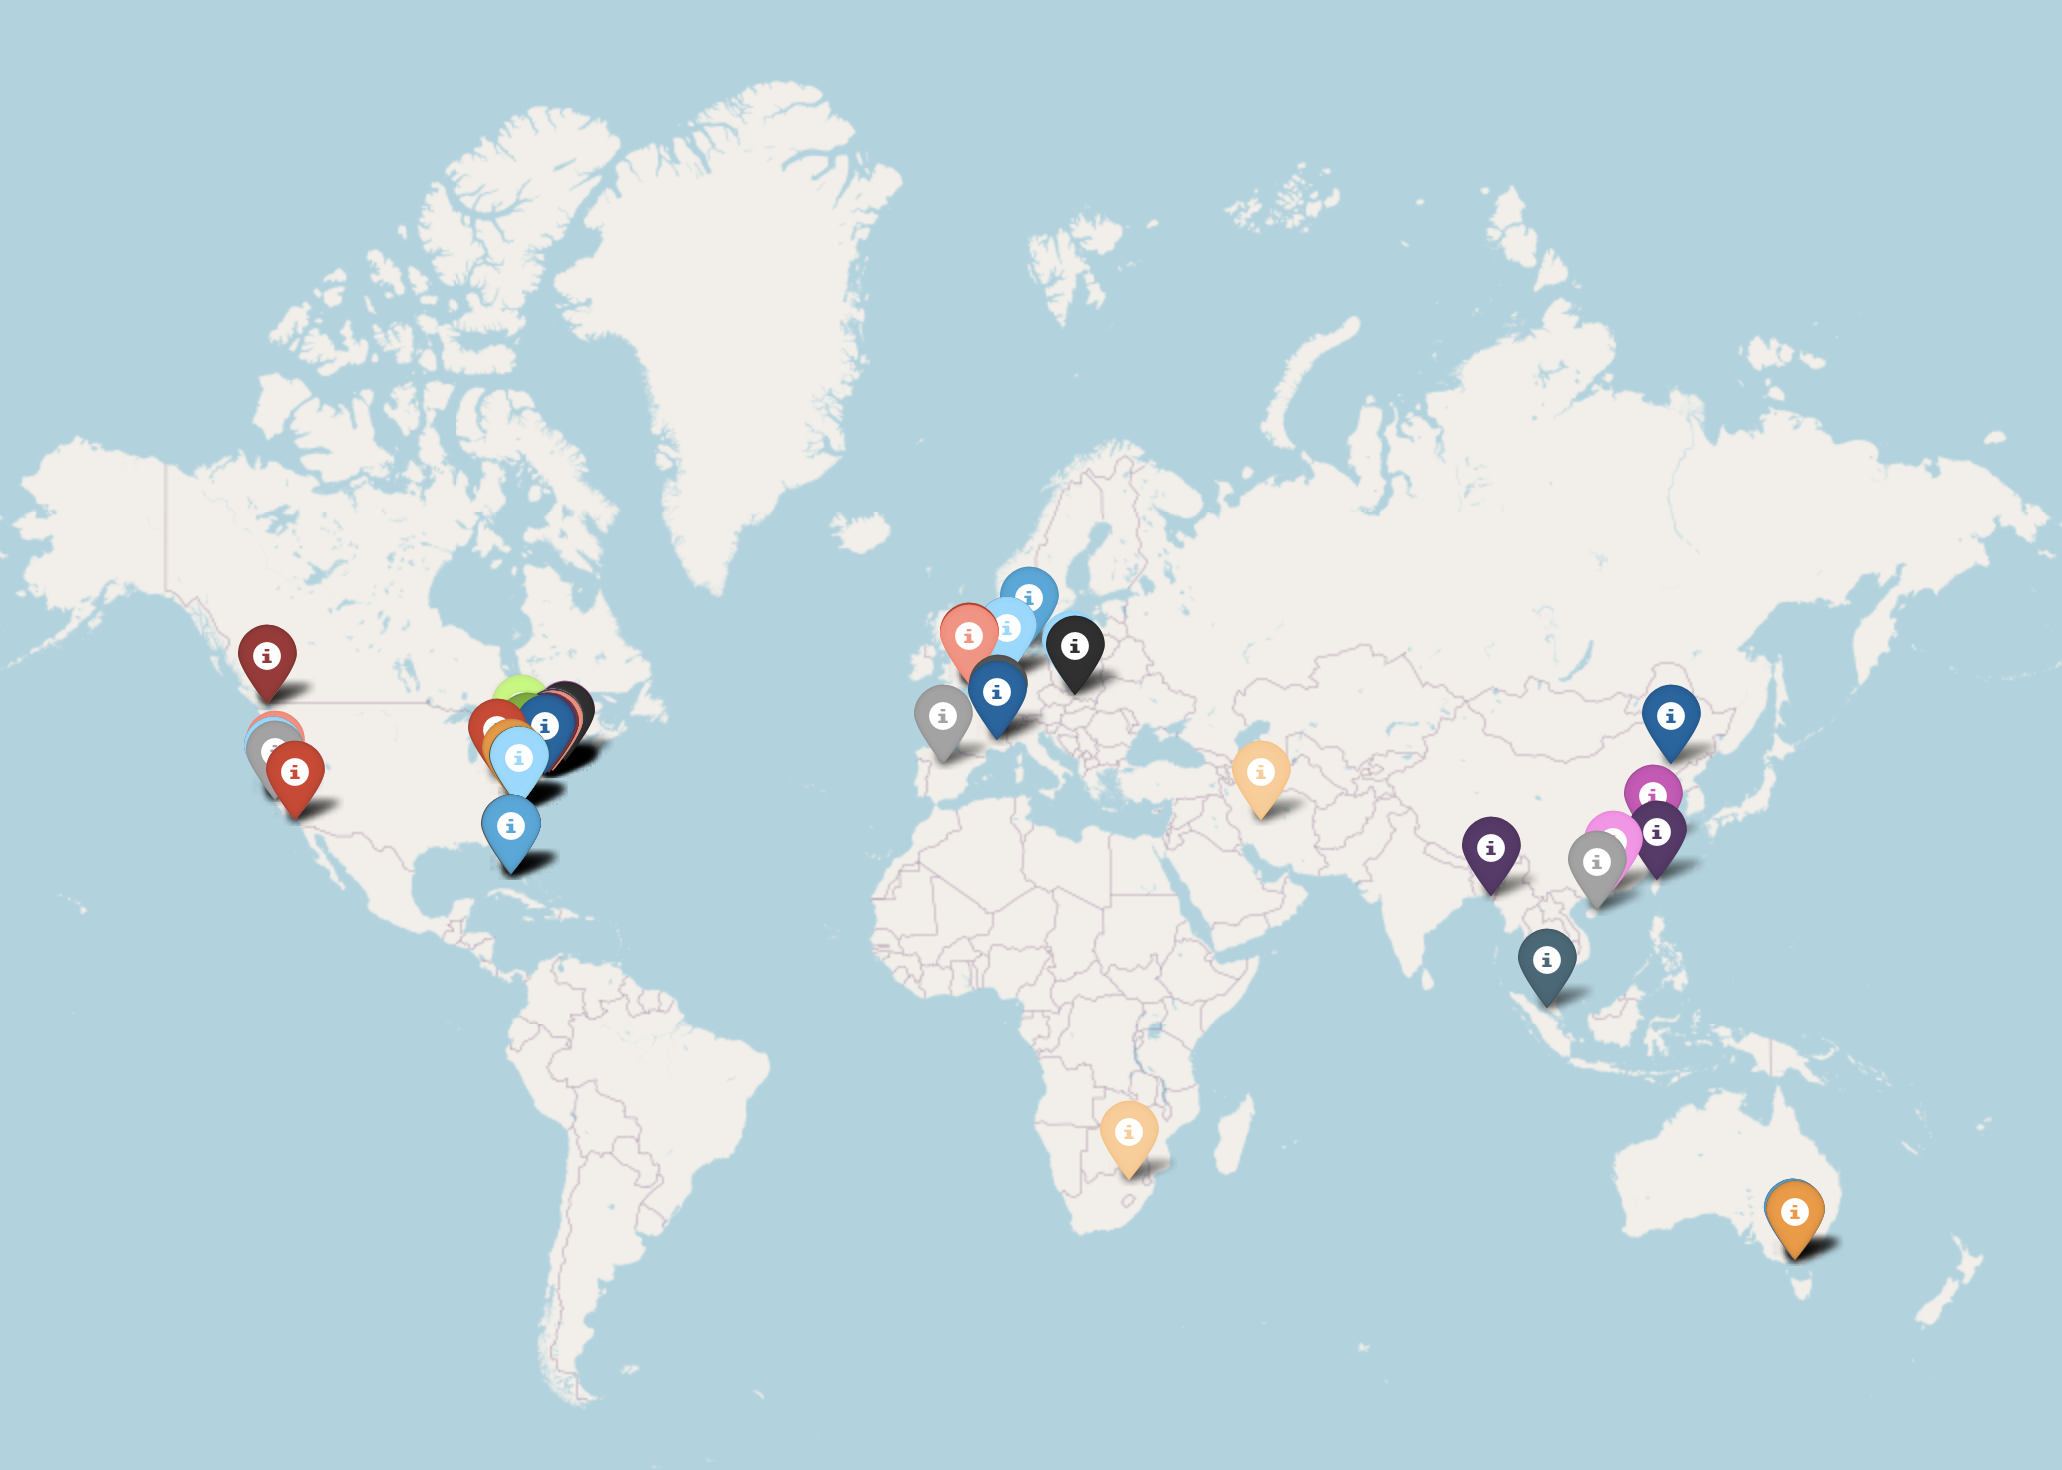
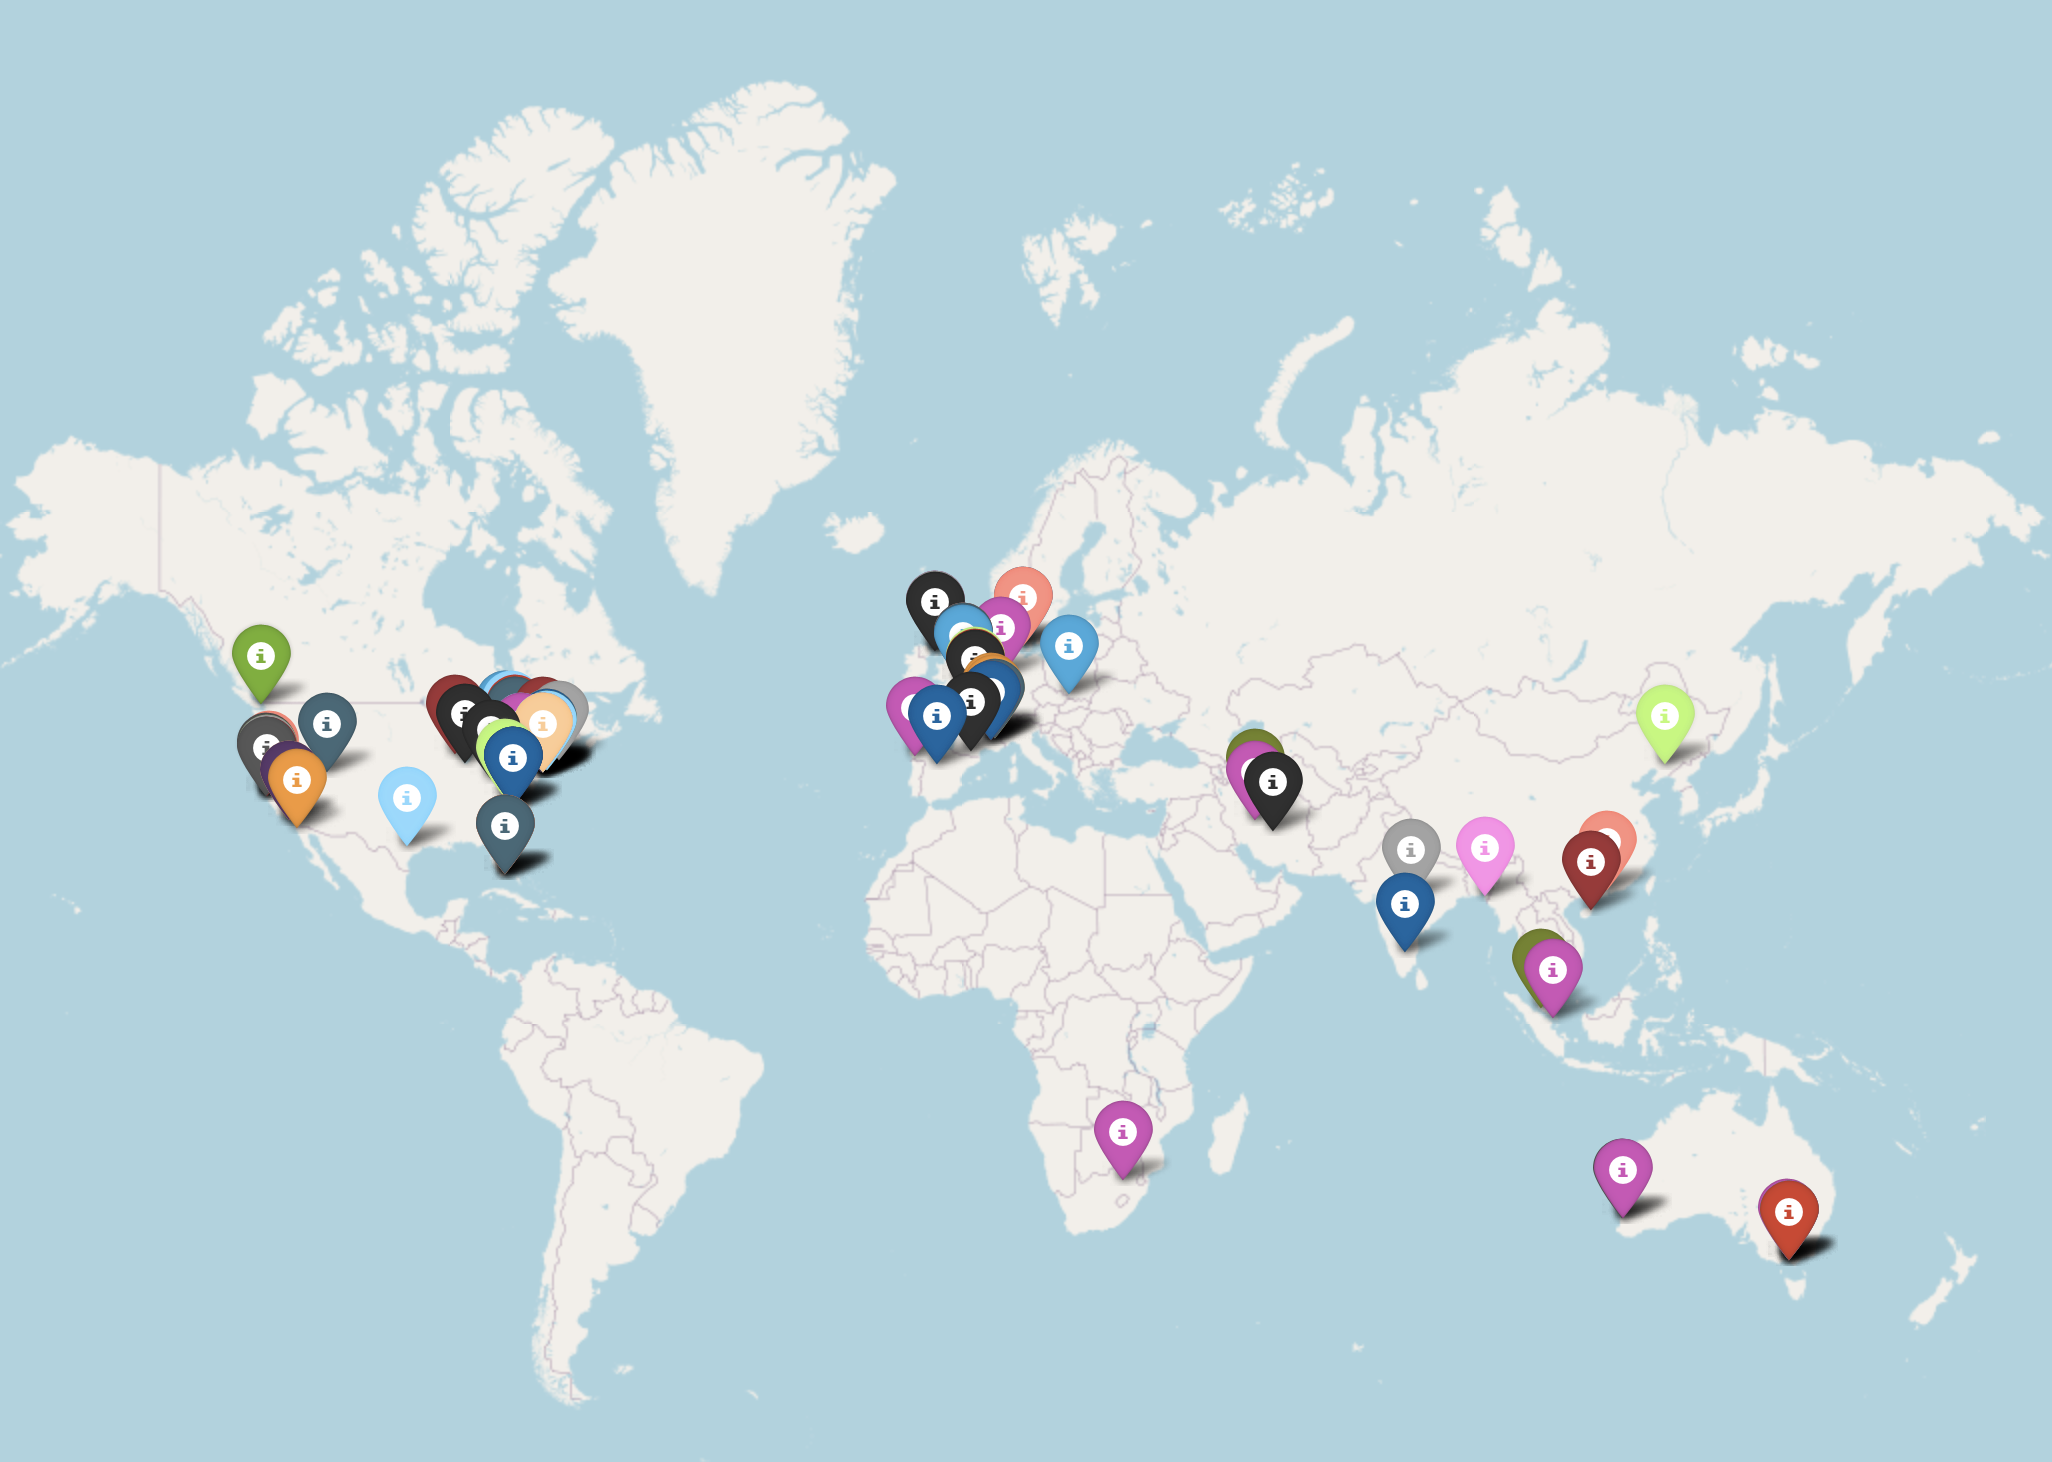
upgrade displayed items

diff --git a/citation_map/citation_map.py b/citation_map/citation_map.py
@@ -3,8 +3,7 @@ import random
 import time
 import itertools
 
-from typing import List
-import numpy as np
+from typing import List, Tuple
 from scholarly import scholarly, ProxyGenerator
 from geopy.geocoders import Nominatim
 import folium
@@ -20,57 +19,71 @@ def fetch_google_scholar_profile(scholar_id: str):
     author = scholarly.fill(author, sections=['publications'])
     return author
 
-def find_all_citing_institutions(publications, num_processes: int = 16) -> List[str]:
+def find_all_citing_institutions(publications, num_processes: int = 16) -> List[Tuple[str]]:
     '''
     Step 2. Final all citing institutions (i.e., insitutions of citing authors).
     '''
     # Fetch metadata for all publications, in parallel.
     with Pool(processes=num_processes) as pool:
-        all_publications = list(tqdm(pool.imap(__fill_publication_metadata, publications), desc='Filling metadata for all publications...', total=len(publications)))
+        all_publications = list(tqdm(pool.imap(__fill_publication_metadata, publications),
+                                     desc='Filling metadata for all publications...',
+                                     total=len(publications)))
 
     # Find all citing papers from all publications, in parallel.
     with Pool(processes=num_processes) as pool:
-        all_citing_papers_nested = list(tqdm(pool.imap(__citing_papers_from_publication, all_publications), desc='Finding all citations...', total=len(all_publications)))
+        all_citing_papers_nested = list(tqdm(pool.imap(__citing_papers_from_publication, all_publications),
+                                             desc='Finding all citations...',
+                                             total=len(all_publications)))
     all_citing_papers = list(itertools.chain(*all_citing_papers_nested))
 
     # Find all citing authors from all citing papers, in parallel.
     with Pool(processes=num_processes) as pool:
-        all_citing_authors_nested = list(tqdm(pool.imap(__authors_from_papers, all_citing_papers), desc='Finding all citing authors...', total=len(all_citing_papers)))
+        all_citing_authors_nested = list(tqdm(pool.imap(__authors_from_papers, all_citing_papers),
+                                              desc='Finding all citing authors...',
+                                              total=len(all_citing_papers)))
     all_citing_authors = list(itertools.chain(*all_citing_authors_nested))
 
     # Find all citing insitutions from all citing authors, in parallel.
     with Pool(processes=num_processes) as pool:
-        all_citing_insitutions = list(tqdm(pool.imap(__institutions_from_authors, all_citing_authors), desc='Finding all citing institutions...', total=len(all_citing_authors)))
+        author_institution_tuple_list = list(tqdm(pool.imap(__institutions_from_authors, all_citing_authors),
+                                                  desc='Finding all citing institutions...',
+                                                  total=len(all_citing_authors)))
 
-    return sorted(all_citing_insitutions)
+    return author_institution_tuple_list
 
-def clean_institution_names(institutions: List[str]) -> List[str]:
+def clean_institution_names(author_institution_tuple_list: List[Tuple[str]]) -> List[Tuple[str]]:
     '''
     Step 3. Clean up the name of institutions from the author's self-entered Google Scholar affiliation.
     '''
-    cleaned_institutions = []
-    for institution_string in institutions:
+    cleaned_author_institution_tuple_list = []
+    for author_name, institution_string in author_institution_tuple_list:
         # Use a regular expression to split the string by ',', ';', or 'and'.
         substring_list = [part.strip() for part in re.split(r'[;,]|\band\b', institution_string)]
         for substring in substring_list:
             # Use a regular expression to remove anything before 'at', or '@'.
             cleaned_institution = re.sub(r'.*?\bat\b|.*?@', '', substring, flags=re.IGNORECASE).strip()
             # Use a regular expression to check if the string is a common weird string.
-            is_common_weird_string = re.search(re.compile(r'\b(director|manager|chair|engineer|programmer|scientist|professor|lecturer|phd|student|ph\.d|department of)\b', re.IGNORECASE), substring)
+            is_common_weird_string = re.search(
+                re.compile(
+                    r'\b(director|manager|chair|engineer|programmer|scientist|professor|lecturer|phd|student|ph\.d|department of)\b',
+                    re.IGNORECASE),
+                substring)
             if not is_common_weird_string:
-                cleaned_institutions.append(cleaned_institution)
-    return cleaned_institutions
+                cleaned_author_institution_tuple_list.append((author_name, cleaned_institution))
+    return cleaned_author_institution_tuple_list
 
-def institution_text_to_geocode(institutions: List[str], num_processes: int = 16) -> List:
+def institution_text_to_geocode(author_institution_tuple_list: List[Tuple[str]], num_processes: int = 16) -> List[Tuple[str]]:
     '''
     Step 4: Convert institutions in plain text to Geocode.
     '''
     with Pool(processes=num_processes) as pool:
-        coordinates = list(tqdm(pool.imap(__text_to_geocode, institutions), desc='Finding all geographic coordinates...', total=len(institutions)))
+        coordinates = list(tqdm(pool.imap(__text_to_geocode, author_institution_tuple_list),
+                                desc='Finding all geographic coordinates...',
+                                total=len(author_institution_tuple_list)))
     coordinates = [item for item in coordinates if item is not None]  # Filter out empty coordinates.
     return coordinates
 
-def create_map(coordinates, pin_colorful: bool = True):
+def create_map(coordinates: List[Tuple[str]], pin_colorful: bool = True):
     '''
     Step 5: Create the Citation World Map.
     '''
@@ -80,12 +93,12 @@ def create_map(coordinates, pin_colorful: bool = True):
                   'lightred', 'beige', 'darkblue', 'darkgreen', 'cadetblue',
                   'darkpurple', 'pink', 'lightblue', 'lightgreen',
                   'gray', 'black', 'lightgray']
-        for lat, lon, location in coordinates:
+        for lat, lon, author_name, location in coordinates:
             color = random.choice(colors)
-            folium.Marker([lat, lon], popup=location, icon=folium.Icon(color=color)).add_to(citation_map)
+            folium.Marker([lat, lon], popup='%s (%s)' % (location, author_name), icon=folium.Icon(color=color)).add_to(citation_map)
     else:
-        for lat, lon, location in coordinates:
-            folium.Marker([lat, lon], popup=location).add_to(citation_map)
+        for lat, lon, author_name, location in coordinates:
+            folium.Marker([lat, lon], popup='%s (%s)' % (location, author_name)).add_to(citation_map)
     return citation_map
 
 def __fill_publication_metadata(pub):
@@ -111,15 +124,16 @@ def __institutions_from_authors(author_id):
     citing_author = scholarly.search_author_id(author_id)
     citing_author = scholarly.fill(citing_author)
     if 'affiliation' in citing_author:
-        return citing_author['affiliation']
+        return (citing_author['name'], citing_author['affiliation'])
     return []
 
-def __text_to_geocode(institution):
+def __text_to_geocode(author_institution_tuple):
     geolocator = Nominatim(user_agent='citation_mapper')
     try:
-        geo_location = geolocator.geocode(institution)
+        author_name, institution_name = author_institution_tuple
+        geo_location = geolocator.geocode(institution_name)
         if geo_location:
-            return (geo_location.latitude, geo_location.longitude, institution)
+            return (geo_location.latitude, geo_location.longitude, author_name, institution_name)
     except:
         return None
 
@@ -164,22 +178,22 @@ def generate_citation_map(scholar_id: str,
     author_profile = fetch_google_scholar_profile(scholar_id)
     print('\nAuthor profile found, with %d publications.\n' % len(author_profile['publications']))
 
-    institutions = find_all_citing_institutions(author_profile['publications'], num_processes=num_processes)
-    print('\nA total of %d citing institutions recorded.\n' % len(institutions))
+    author_institution_tuple_list = find_all_citing_institutions(author_profile['publications'], num_processes=num_processes)
+    print('\nA total of %d citing institutions recorded.\n' % len(author_institution_tuple_list))
 
     if print_citing_institutions:
-        print('\nList of all citing institutions before cleaning:\n')
-        for item in np.unique(institutions):
+        print('\nList of all citing authors and institutions before cleaning:\n')
+        for item in sorted(author_institution_tuple_list):
             print(item)
 
-    cleaned_institutions = clean_institution_names(institutions)
+    cleaned_author_institution_tuple_list = clean_institution_names(author_institution_tuple_list)
 
     if print_citing_institutions:
-        print('\nList of all citing institutions after cleaning:\n')
-        for item in np.unique(cleaned_institutions):
+        print('\nList of all citing authors and institutions after cleaning:\n')
+        for item in sorted(cleaned_author_institution_tuple_list):
             print(item)
 
-    coordinates = institution_text_to_geocode(institutions + cleaned_institutions)
+    coordinates = institution_text_to_geocode(author_institution_tuple_list + cleaned_author_institution_tuple_list)
     print('\nConverted the institutions to Geocodes.')
 
     citation_map = create_map(coordinates, pin_colorful=pin_colorful)

diff --git a/setup.py b/setup.py
@@ -5,7 +5,7 @@ with open('README.md') as f:
 
 setup(
     name='citation-map',
-    version='3.0',
+    version='3.1',
     license='MIT',
     author='Chen Liu',
     author_email='chen.liu.cl2482@yale.edu',
@@ -16,7 +16,7 @@ setup(
     long_description_content_type='text/markdown',
     url='https://github.com/ChenLiu-1996/CitationMap',
     keywords='citation map, citation world map, google scholar',
-    install_requires=['scholarly', 'geopy', 'folium', 'tqdm', 'numpy'],
+    install_requires=['scholarly', 'geopy', 'folium', 'tqdm'],
     classifiers=[
     'Development Status :: 3 - Alpha',      # Chose either "3 - Alpha", "4 - Beta" or "5 - Production/Stable" as the current state of your package
     'Intended Audience :: Developers',      # Define that your audience are developers
